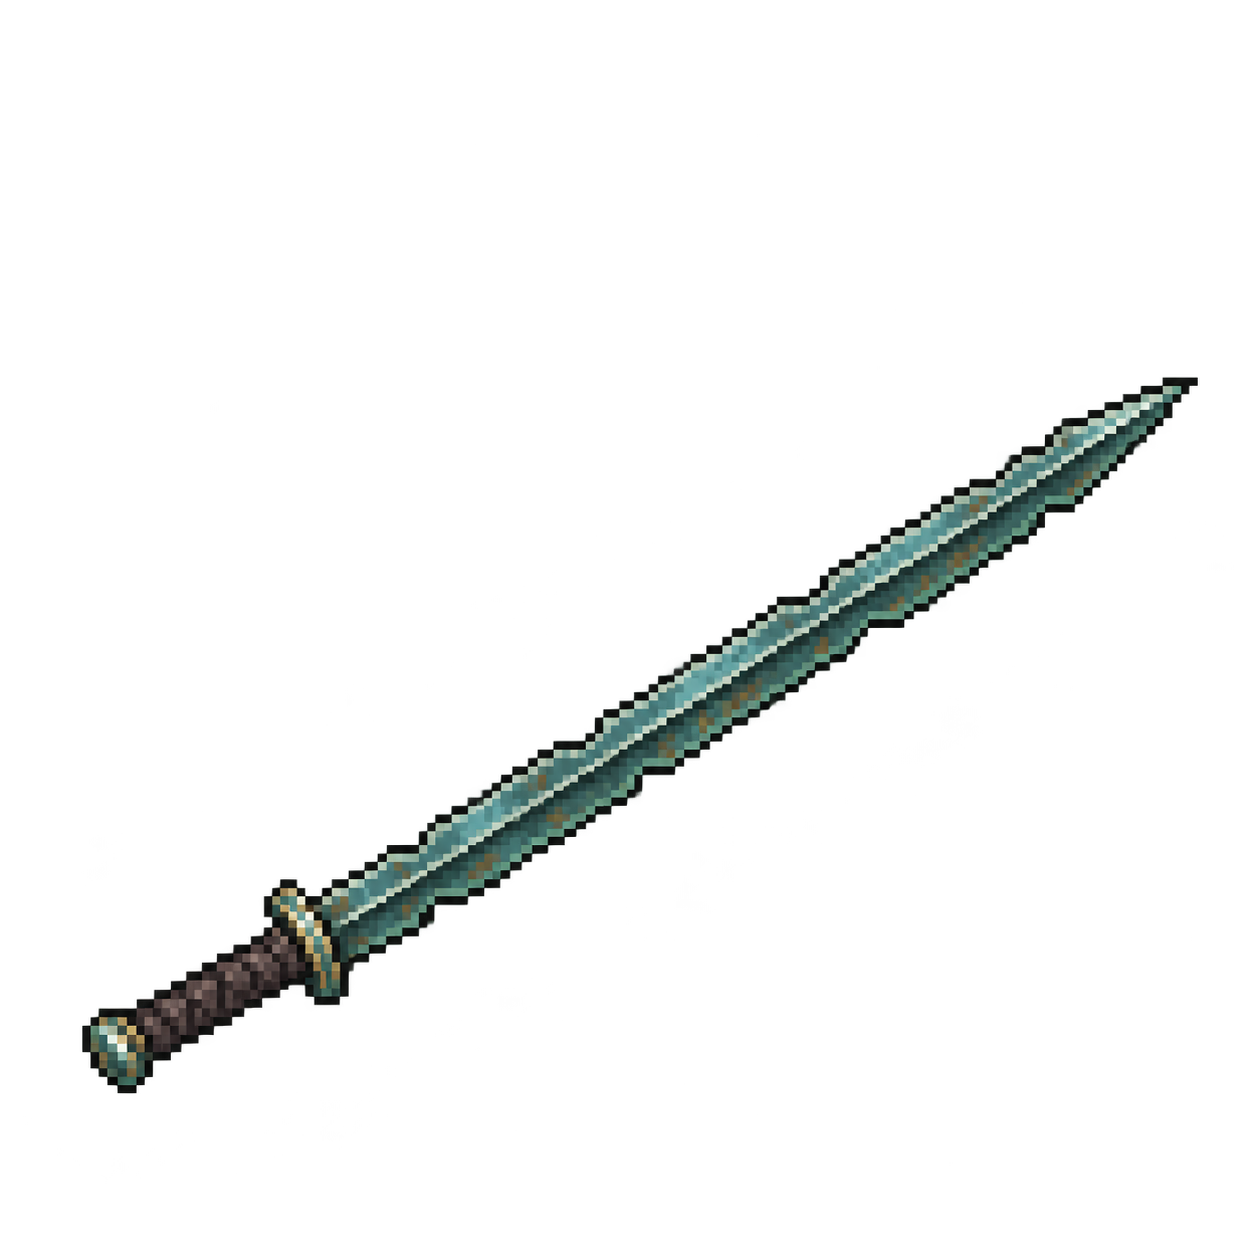
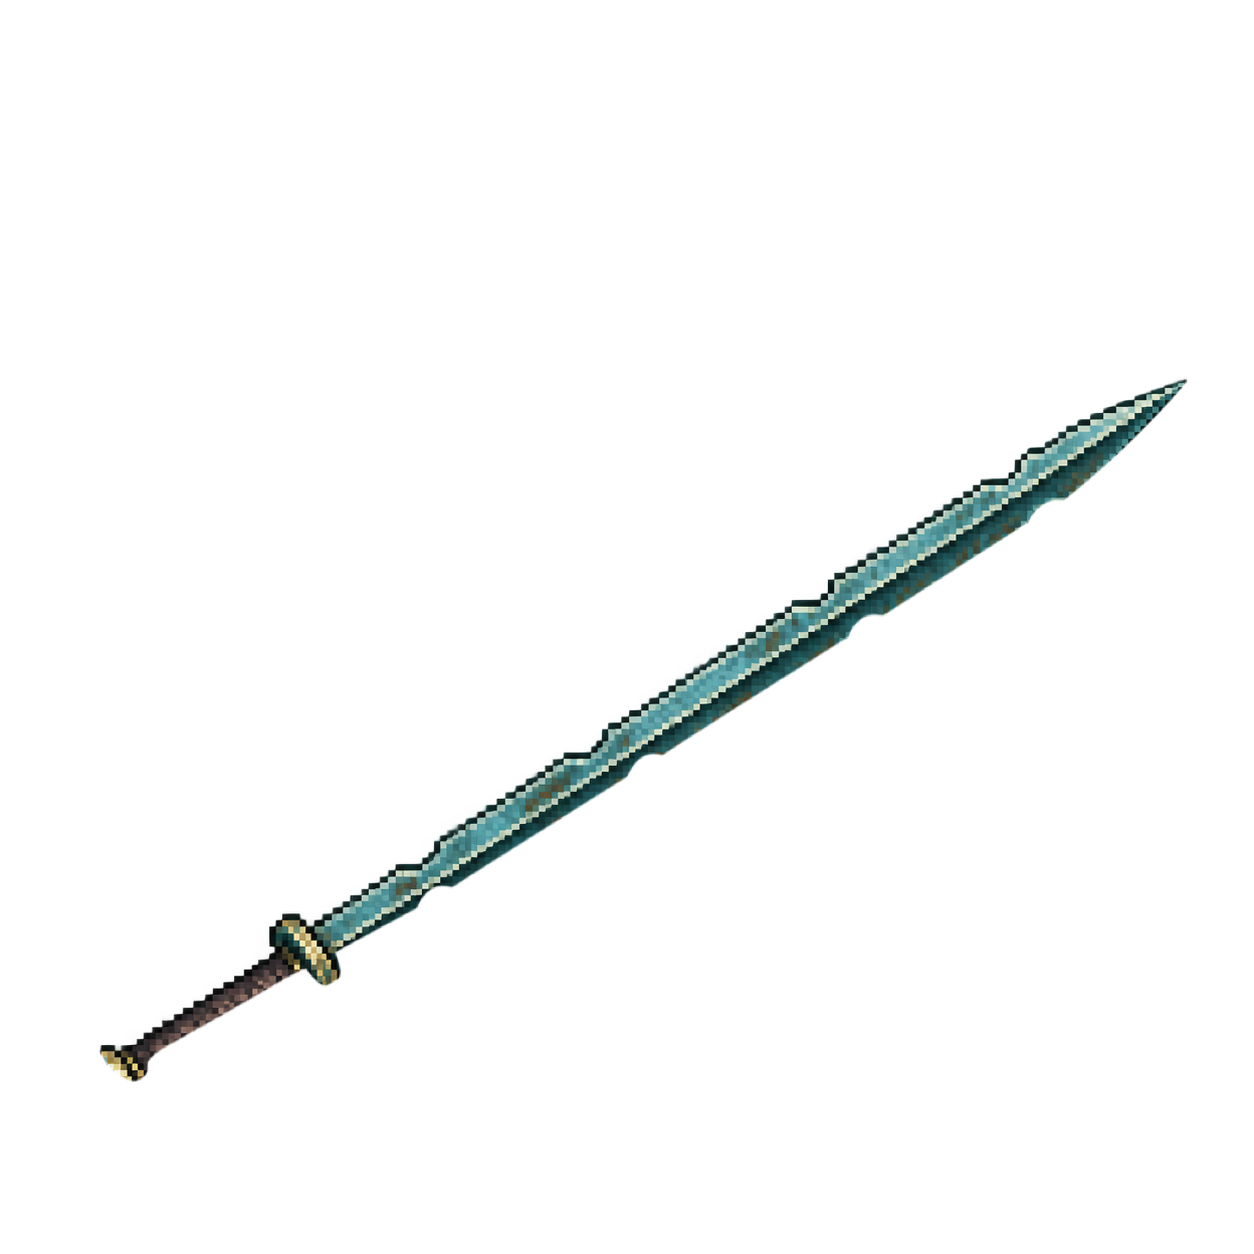
art: compare reviewed vfx candidates with source assets

Changed region(s): [[0.0622, 0.2799, 0.9641, 0.8708]]

diff --git a/Docs/presentation-art-preview.html b/Docs/presentation-art-preview.html
@@ -89,6 +89,15 @@
     .asset-draft { border-color: #ba8830; }
     .asset-draft .asset-meta { background: #3f2d15; }
     .empty-note { color: var(--muted); line-height: 1.7; padding: 16px 0 0; }
+    .compare-grid { display: grid; grid-template-columns: repeat(auto-fit, minmax(360px, 1fr)); gap: 14px; margin-top: 14px; }
+    .comparison { min-width: 0; border: 1px solid #ba8830; background: #242018; }
+    .comparison-title { padding: 10px 12px; font-weight: 800; background: #3f2d15; }
+    .comparison-samples { display: grid; grid-template-columns: repeat(2, minmax(0, 1fr)); gap: 1px; background: #645333; }
+    .comparison-sample { min-width: 0; background: #242018; }
+    .comparison-label { padding: 8px 10px; color: var(--muted); font-size: 13px; font-weight: 700; }
+    .comparison-preview { display: grid; min-height: 180px; place-items: center; padding: 12px; background-color: var(--sample-bg); background-image: linear-gradient(45deg, var(--checker-a) 25%, transparent 25%), linear-gradient(-45deg, var(--checker-a) 25%, transparent 25%), linear-gradient(45deg, transparent 75%, var(--checker-a) 75%), linear-gradient(-45deg, transparent 75%, var(--checker-a) 75%); background-size: 22px 22px; background-position: 0 0, 0 11px, 11px -11px, -11px 0; }
+    .comparison-preview img { display: block; width: 100%; height: 148px; object-fit: contain; }
+    .comparison-path { display: block; overflow: hidden; padding: 0 10px 10px; color: var(--muted); font-size: 11px; text-overflow: ellipsis; white-space: nowrap; }
 
     @media (max-width: 720px) {
       .shell { width: min(100% - 20px, 1540px); padding-top: 10px; }
@@ -98,6 +107,9 @@
       .asset-preview { min-height: 126px; padding: 8px; }
       .asset-preview img { height: 106px; }
       .wide-grid { grid-template-columns: repeat(2, minmax(0, 1fr)); }
+      .compare-grid { grid-template-columns: 1fr; }
+      .comparison-preview { min-height: 142px; padding: 8px; }
+      .comparison-preview img { height: 118px; }
     }
   </style>
 </head>
@@ -136,17 +148,17 @@
     <section>
       <div class="section-title">
         <h2>現行の技能 VFX</h2>
-        <span class="section-note">ゲームで使われている代表フレーム</span>
+        <span class="section-note">実際にランタイムが参照する代表素材のみ</span>
       </div>
       <div id="vfx" class="grid"></div>
     </section>
 
     <section>
       <div class="section-title">
-        <h2>ドット絵 VFX 候補</h2>
-        <span class="section-note">未接続。現行PNGの形・向き・余白を固定し、描画だけをドット絵化した候補です</span>
+        <h2>VFX 置換候補の対比</h2>
+        <span class="section-note">左が現行、右が未接続のドット絵候補です</span>
       </div>
-      <div id="vfx-drafts" class="grid wide-grid"></div>
+      <div id="vfx-comparisons" class="compare-grid"></div>
     </section>
   </main>
 
@@ -197,13 +209,14 @@
       ['結束: 上位・弱', 'Resources/VFX/Animated/NumberAura_High_Weak/frame_01.png'], ['結束: 上位・中', 'Resources/VFX/Animated/NumberAura_High_Medium/frame_01.png'], ['結束: 上位・強', 'Resources/VFX/Animated/NumberAura_High_Strong/frame_07.png']
     ];
 
-    const vfxDrafts = [
-      ['剣: 斬撃', 'Art/Drafts/VFX/Weapons/SwordMotion_pixel_v2_draft.png'],
-      ['槌: 振り下ろし', 'Art/Drafts/VFX/Weapons/HammerMotion_pixel_v2_draft.png'],
-      ['虎: 四本爪', 'Art/Drafts/VFX/TigerTwinClaw_pixel_draft.png'],
-      ['水: 回復の水滴', 'Art/Drafts/VFX/WaterHeal/WaterHeal_pixel_v2_draft.png'],
-      ['盾: 木札の防御', 'Art/Drafts/VFX/Shield/Shield_pixel_v2_draft.png'],
-      ['馬: 二股の砂煙', 'Art/Drafts/VFX/HorseCharge/HorseChargeForkedWind_pixel_v2_draft.png']
+    const vfxComparisons = [
+      ['剣: 斬撃', 'Resources/VFX/Weapons/SwordMotion.png', 'Art/Drafts/VFX/Weapons/SwordMotion_pixel_v2_draft.png'],
+      ['槌: 振り下ろし', 'Resources/VFX/Weapons/HammerMotion.png', 'Art/Drafts/VFX/Weapons/HammerMotion_pixel_v2_draft.png'],
+      ['虎: 四本爪', 'Resources/VFX/Animated/TigerTwinClaw/frame_03.png', 'Art/Drafts/VFX/TigerTwinClaw_pixel_draft.png'],
+      ['水: 回復の水滴', 'Resources/VFX/Animated/WaterHeal/frame_03.png', 'Art/Drafts/VFX/WaterHeal/WaterHeal_pixel_v2_draft.png'],
+      ['盾: 木札の防御', 'Resources/VFX/Animated/Shield/frame_02.png', 'Art/Drafts/VFX/Shield/Shield_pixel_v2_draft.png'],
+      ['馬: 二股の砂煙', 'Resources/VFX/Static/HorseChargeForkedWind.png', 'Art/Drafts/VFX/HorseCharge/HorseChargeForkedWind_pixel_v2_draft.png'],
+      ['鳥: 羽の退避', 'Resources/VFX/Static/BirdFeathersOnly.png', 'Art/Drafts/VFX/BirdRetreat/BirdFeathersOnly_pixel_v2_draft.png']
     ];
 
     function render(targetId, entries, draft) {
@@ -226,10 +239,29 @@
       });
     }
 
+    function renderComparisons(entries) {
+      const target = document.getElementById('vfx-comparisons');
+      entries.forEach(([name, currentPath, candidatePath]) => {
+        const card = document.createElement('article');
+        card.className = 'comparison';
+        card.innerHTML = `<div class="comparison-title">${name}</div>`;
+        const samples = document.createElement('div');
+        samples.className = 'comparison-samples';
+        [['現行', currentPath], ['候補', candidatePath]].forEach(([label, path]) => {
+          const sample = document.createElement('div');
+          sample.className = 'comparison-sample';
+          sample.innerHTML = `<div class="comparison-label">${label}</div><div class="comparison-preview"><img src="${root + path}" alt="${name} ${label}"></div><span class="comparison-path">${path}</span>`;
+          samples.appendChild(sample);
+        });
+        card.appendChild(samples);
+        target.appendChild(card);
+      });
+    }
+
     render('pieces', pieces, false);
     render('motifs', motifs, true);
     render('vfx', vfx, false);
-    render('vfx-drafts', vfxDrafts, true);
+    renderComparisons(vfxComparisons);
 
     const palettes = {
       checker: ['#4b4945', '#393733', '#4d4a43'],
